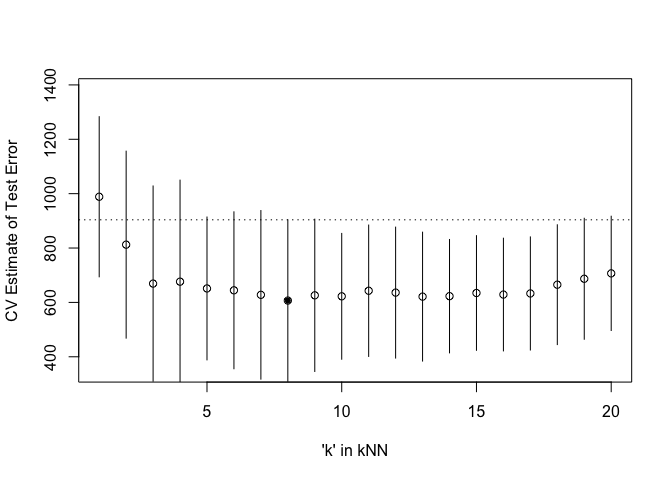
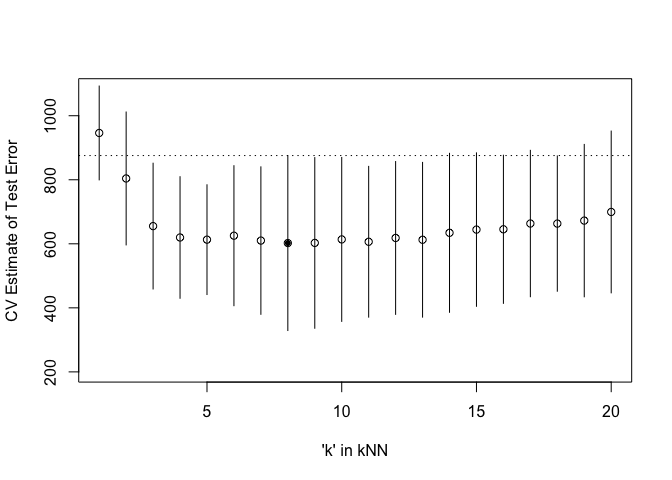
update

diff --git a/Homework5/Homework5.md b/Homework5/Homework5.md
@@ -15,9 +15,9 @@ library(tidyverse)
     ## ── Attaching packages ─────────────────────────────────────── tidyverse 1.3.1 ──
 
     ## ✓ ggplot2 3.3.5     ✓ purrr   0.3.4
-    ## ✓ tibble  3.1.6     ✓ dplyr   1.0.7
-    ## ✓ tidyr   1.1.4     ✓ stringr 1.4.0
-    ## ✓ readr   2.0.2     ✓ forcats 0.5.1
+    ## ✓ tibble  3.1.6     ✓ dplyr   1.0.8
+    ## ✓ tidyr   1.2.0     ✓ stringr 1.4.0
+    ## ✓ readr   2.1.2     ✓ forcats 0.5.1
 
     ## ── Conflicts ────────────────────────────────────────── tidyverse_conflicts() ──
     ## x dplyr::filter() masks stats::filter()
@@ -49,7 +49,7 @@ sid<-as.numeric(rownames(train))
 test<-mcycle[-sid,]
 ```
 
-# Question 2: Using the mcycle data, consider predicting the mean acceleration as a function of time. Use the Nadaraya-Watson method with the k-NN kernel
+# Question 2: Using the mcycle data, consider predicting the mean acceleration as a function of time. Use the Nadaraya-Watson method with the k-NN kernel function to create a series of prediction models by varying the tuning parameter over a sequence of values. (hint: the script already implements this)
 
 ``` r
 # predicting the mean acceleration
@@ -111,8 +111,6 @@ lines(x_plot, y_hat_plot, col="#882255", lwd=2)
 ```
 
 ![](Homework5_files/figure-gfm/unnamed-chunk-6-1.png)<!-- -->
-
-# Question 3: function to create a series of prediction models by varying the tuning parameter over a sequence of values. (hint: the script already implements this)
 
 ``` r
 ## set k from 1 to 10
@@ -186,63 +184,64 @@ effective_df <- function(y, x, kern, ...) {
 
 ``` r
 ## how does k affect shape of predictor and eff. df using k-nn kernel ?
-# manipulate({
-#   ## make predictions using NW method at training inputs
-#   y_hat <- nadaraya_watson(y, x, x,
-#     kern=kernel_k_nearest_neighbors, k=k_slider)
-#   edf <- effective_df(y, x, 
-#     kern=kernel_k_nearest_neighbors, k=k_slider)
-#   aic_ <- aic(y, y_hat, edf)
-#   bic_ <- bic(y, y_hat, edf)
-#   y_hat_plot <- nadaraya_watson(y, x, x_plot,
-#     kern=kernel_k_nearest_neighbors, k=k_slider)
-#   plot(x, y, xlab="Time (ms)", ylab="Acceleration (g)")
-#   legend('topright', legend = c(
-#     paste0('eff. df = ', round(edf,1)),
-#     paste0('aic = ', round(aic_, 1)),
-#     paste0('bic = ', round(bic_, 1))),
-#     bty='n')
-#   lines(x_plot, y_hat_plot, col="#882255", lwd=2) 
-# }, k_slider=slider(1, 10, initial=3, step=1))
+
+   ## make predictions using NW method at training inputs
+   y_hat <- nadaraya_watson(y, x, x,
+     kern=kernel_k_nearest_neighbors, k=1)
+   edf <- effective_df(y, x, 
+     kern=kernel_k_nearest_neighbors, k=1)
+   aic_ <- aic(y, y_hat, edf)
+   bic_ <- bic(y, y_hat, edf)
+   y_hat_plot <- nadaraya_watson(y, x, x_plot,
+     kern=kernel_k_nearest_neighbors, k=1)
+   plot(x, y, xlab="Time (ms)", ylab="Acceleration (g)")
+   legend('topright', legend = c(
+     paste0('eff. df = ', round(edf,1)),
+     paste0('aic = ', round(aic_, 1)),
+     paste0('bic = ', round(bic_, 1))),
+     bty='n')
+   lines(x_plot, y_hat_plot, col="#882255", lwd=2) 
 ```
 
-# Question 5: For each value of the tuning parameter, Perform 5-fold cross-validation using the combined training and validation data. This results in 5 estimates of test error per tuning parameter value.
+![](Homework5_files/figure-gfm/unnamed-chunk-14-1.png)<!-- -->
+
+# Question 4: For each value of the tuning parameter, Perform 5-fold cross-validation using the combined training and validation data. This results in 5 estimates of test error per tuning parameter value.
 
 ## 5-fold cross-validation of knnreg model
 
 ``` r
 ## create five folds
-set.seed(1)
+set.seed(100)
 mcycle_flds  <- createFolds(mcycle$accel, k=5)
 print(mcycle_flds)
 ```
 
     ## $Fold1
-    ##  [1]   2   5  11  12  15  23  26  45  46  51  54  58  66  75  76  80  83  84  87
-    ## [20]  90  96  98 115 122 128 131 132
+    ##  [1]   5  13  21  23  35  37  39  48  49  61  63  65  66  68  77  83  88  93 117
+    ## [20] 119 123 126 127 128 133
     ## 
     ## $Fold2
-    ##  [1]   8  14  17  25  30  33  36  41  42  43  44  48  49  68  78  81  91  93  94
-    ## [20]  99 102 106 108 110 126 127 130
+    ##  [1]   4   8   9  10  11  15  19  30  31  38  41  44  47  53  56  73  80  84  87
+    ## [20]  90  91 104 107 110 120 122 129
     ## 
     ## $Fold3
-    ##  [1]   4   7  21  22  24  28  29  39  47  50  53  55  61  64  67  69  79  86  92
-    ## [20] 105 107 112 120 121 123 133
+    ##  [1]   3  14  16  18  20  29  32  34  46  57  60  62  71  72  75  76  79  81  92
+    ## [20]  94 102 103 108 114 116 118 121
     ## 
     ## $Fold4
-    ##  [1]   1   3   6   9  16  18  31  32  34  37  40  52  57  59  63  70  88  97 100
-    ## [20] 101 103 114 116 118 124 129
+    ##  [1]   2   6   7  17  22  27  33  42  43  45  51  52  55  67  70  78  82  85  89
+    ## [20]  99 105 106 109 111 112 131 132
     ## 
     ## $Fold5
-    ##  [1]  10  13  19  20  27  35  38  56  60  62  65  71  72  73  74  77  82  85  89
-    ## [20]  95 104 109 111 113 117 119 125
+    ##  [1]   1  12  24  25  26  28  36  40  50  54  58  59  64  69  74  86  95  96  97
+    ## [20]  98 100 101 113 115 124 125 130
 
 ``` r
 sapply(mcycle_flds, length) 
 ```
 
     ## Fold1 Fold2 Fold3 Fold4 Fold5 
-    ##    27    27    26    26    27
+    ##    25    27    27    27    27
 
 ## 5 estimates of test error
 
@@ -267,7 +266,7 @@ cvknnreg <- function(kNN = 10, flds=mcycle_flds) {
 }
 ```
 
-# Question 6: Plot the CV-estimated test error (average of the five estimates from each fold) as a function of the tuning parameter. Add vertical line segments to the figure (using the segments function in R) that represent one “standard error” of the CV-estimated test error (standard deviation of the five estimates from each fold).
+# Question 5: Plot the CV-estimated test error (average of the five estimates from each fold) as a function of the tuning parameter. Add vertical line segments to the figure (using the segments function in R) that represent one “standard error” of the CV-estimated test error (standard deviation of the five estimates from each fold).
 
 # CV-estimated test error
 
@@ -277,24 +276,24 @@ cverrs <- sapply(1:20, cvknnreg)
 print(cverrs) ## rows are k-folds (1:5), cols are kNN (1:20)
 ```
 
-    ##           [,1]      [,2]      [,3]      [,4]      [,5]      [,6]      [,7]
-    ## [1,]  833.7631  582.3799  520.4267  524.4643  541.7711  478.6416  445.9896
-    ## [2,] 1352.1064 1381.4486 1297.2430 1324.4854 1098.2313 1122.7449 1141.9824
-    ## [3,]  984.5000  632.1399  456.9012  488.1716  557.1328  522.9114  539.9713
-    ## [4,] 1177.9617  893.0425  631.6250  648.2299  643.6340  697.5926  662.9493
-    ## [5,]  594.9439  573.1915  439.9326  395.8718  415.9289  400.8986  348.2554
-    ##           [,8]      [,9]     [,10]     [,11]     [,12]     [,13]    [,14]
-    ## [1,]  398.2609  384.7866  407.2981  446.4139  434.4257  428.8328 447.7663
-    ## [2,] 1106.4601 1100.6343 1008.7705 1057.8712 1039.9583 1003.2420 961.8530
-    ## [3,]  536.8323  580.3196  613.0110  624.9374  628.4059  645.9322 656.1005
-    ## [4,]  619.5004  605.5366  593.4215  576.6957  606.5749  610.0195 587.4333
-    ## [5,]  372.7873  459.0067  489.4587  508.5917  470.9600  418.4527 461.5154
-    ##         [,15]    [,16]    [,17]    [,18]    [,19]    [,20]
-    ## [1,] 418.1714 413.5000 416.8825 408.8881 434.2074 426.0638
-    ## [2,] 972.7536 951.6233 949.5257 976.1762 998.5977 962.6726
-    ## [3,] 670.7562 698.0429 718.1851 784.7335 817.6874 859.8918
-    ## [4,] 593.5669 562.1299 568.0380 611.9726 624.0383 662.2680
-    ## [5,] 518.0408 519.1216 511.8726 544.0493 560.4584 623.2298
+    ##           [,1]      [,2]     [,3]     [,4]     [,5]     [,6]     [,7]     [,8]
+    ## [1,]  997.6650  714.4913 587.1123 581.2436 545.2505 559.8968 546.8003 539.7921
+    ## [2,]  695.4783  496.4465 396.9731 440.2303 398.1633 342.0288 272.9376 203.2395
+    ## [3,]  968.1346  831.0187 846.0472 893.5528 835.8301 897.0734 850.0409 867.3185
+    ## [4,] 1080.4844 1001.1064 859.7604 722.0259 730.2249 785.8331 799.7283 852.0883
+    ## [5,]  989.0818  977.3568 586.6572 461.5940 555.2788 541.7706 580.8977 549.4356
+    ##          [,9]    [,10]    [,11]    [,12]    [,13]    [,14]    [,15]    [,16]
+    ## [1,] 569.9457 553.4544 566.2010 573.8413 524.9770 558.6340 589.6369 590.0329
+    ## [2,] 213.9730 237.9303 245.9675 264.8992 259.4090 261.9348 280.7410 296.0850
+    ## [3,] 800.2472 837.5268 763.6965 802.4372 811.7969 821.9348 803.4317 768.8459
+    ## [4,] 898.8261 869.2792 861.9321 873.6781 860.3733 892.9122 907.2119 916.5713
+    ## [5,] 530.8701 570.3775 594.1729 576.5968 606.6121 636.4485 641.0222 655.2628
+    ##         [,17]    [,18]    [,19]    [,20]
+    ## [1,] 634.0665 644.9846 606.3355 621.9942
+    ## [2,] 291.3015 311.0821 289.8378 296.4595
+    ## [3,] 810.2704 788.6716 794.2236 819.0443
+    ## [4,] 879.4238 850.7059 896.7049 940.8030
+    ## [5,] 701.6257 720.3958 775.2623 819.0434
 
 ``` r
 cverrs_mean <- apply(cverrs, 2, mean)
@@ -313,7 +312,7 @@ abline(h=cverrs_mean[best_idx] + cverrs_sd[best_idx], lty=3)
 
 ![](Homework5_files/figure-gfm/unnamed-chunk-17-1.png)<!-- -->
 
-# Question 7:Interpret the resulting figures and select a suitable value for the tuning parameter.
+# Question 6:Interpret the resulting figures and select a suitable value for the tuning parameter.
 
 From the glot, we can see that k equals 8 is th best here. Then K \>8,
 both test and train errors increase.
